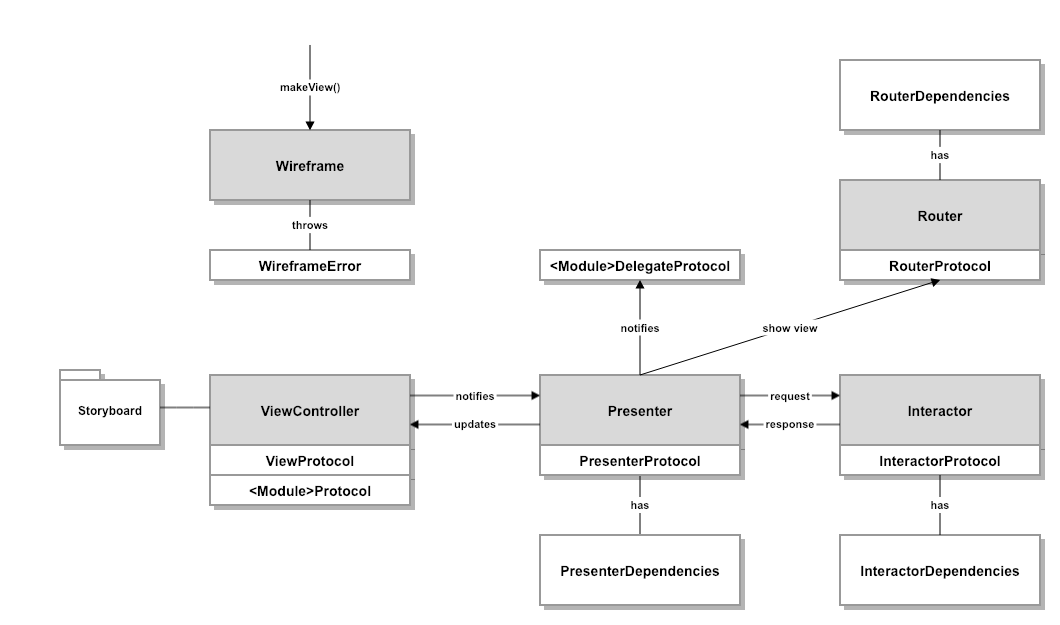
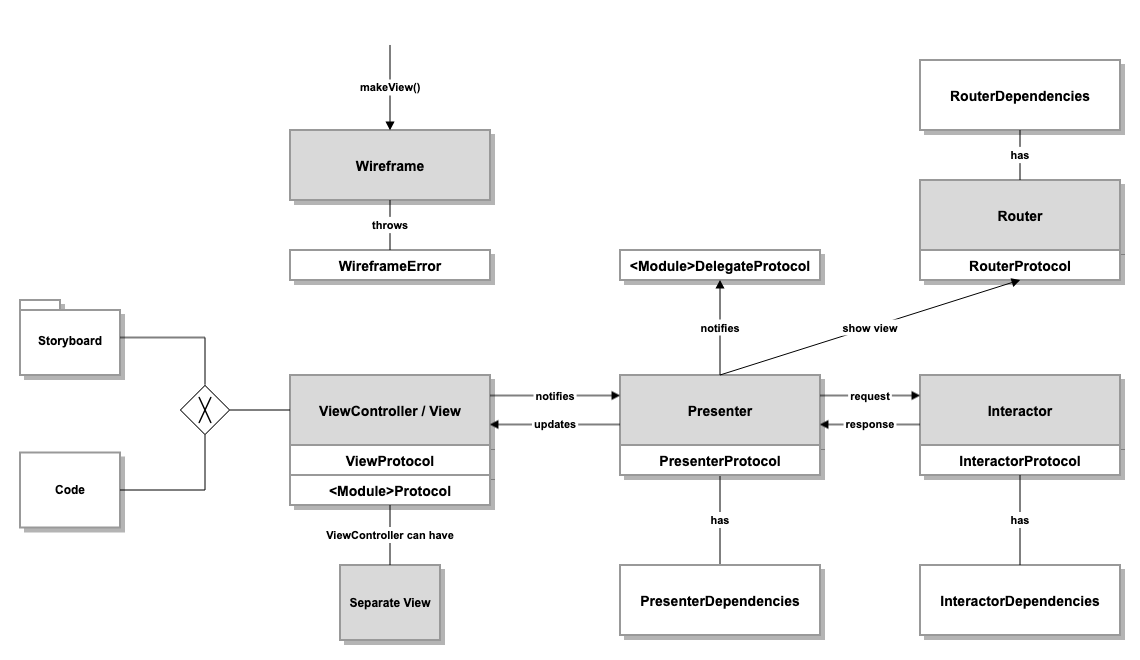
docs(): added xcode dialog screenshot, updated diagram, updated readme

diff --git a/README.md b/README.md
@@ -1,4 +1,5 @@
 # VIPER Template for Xcode
+
 ![Viper](https://github.com/SebastianBoldt/Viper-Xcode-Template/blob/89a2783e891090127c8a06840aab4b0c57829fdc/banner.png?raw=true)
 
 <a href="http://twitter.com/sebastianboldt"><img src="https://img.shields.io/badge/twitter-@sebastianboldt-blue.svg?longCache=true&style=flat-square" alt="twitter handle" /></a>
@@ -9,6 +10,9 @@
 This is an Xcode template for the VIPER pattern. All required components for a Viper stack can be created quickly and easily with just a few clicks. The template consists of the standard components, View, Presenter, Router and Interactor. In addition we are using DIP(Dependency Inversion Principle) to add dependencies to each module.
 
 Works very well in conjunction with: https://github.com/crelies/Service-Xcode-Template
+
+![Xcode dialog](https://github.com/crelies/Viper-Xcode-Template/blob/master/Xcode-dialog.png)
+
 ## How to use 🛠
 
 Use the install script.
@@ -16,6 +20,7 @@ Use the install script.
 ```sudo swift install.swift```
 
 ## Structure
+
 ![Viper](https://github.com/crelies/Viper-Xcode-Template/blob/master/viper.png)
 
 ## 🤖 Authors
@@ -27,4 +32,3 @@ Christian Elies, https://www.christianelies.de
 ## 📄 License
 
 This Template is available under the MIT license. See the LICENSE file for more info.
-
